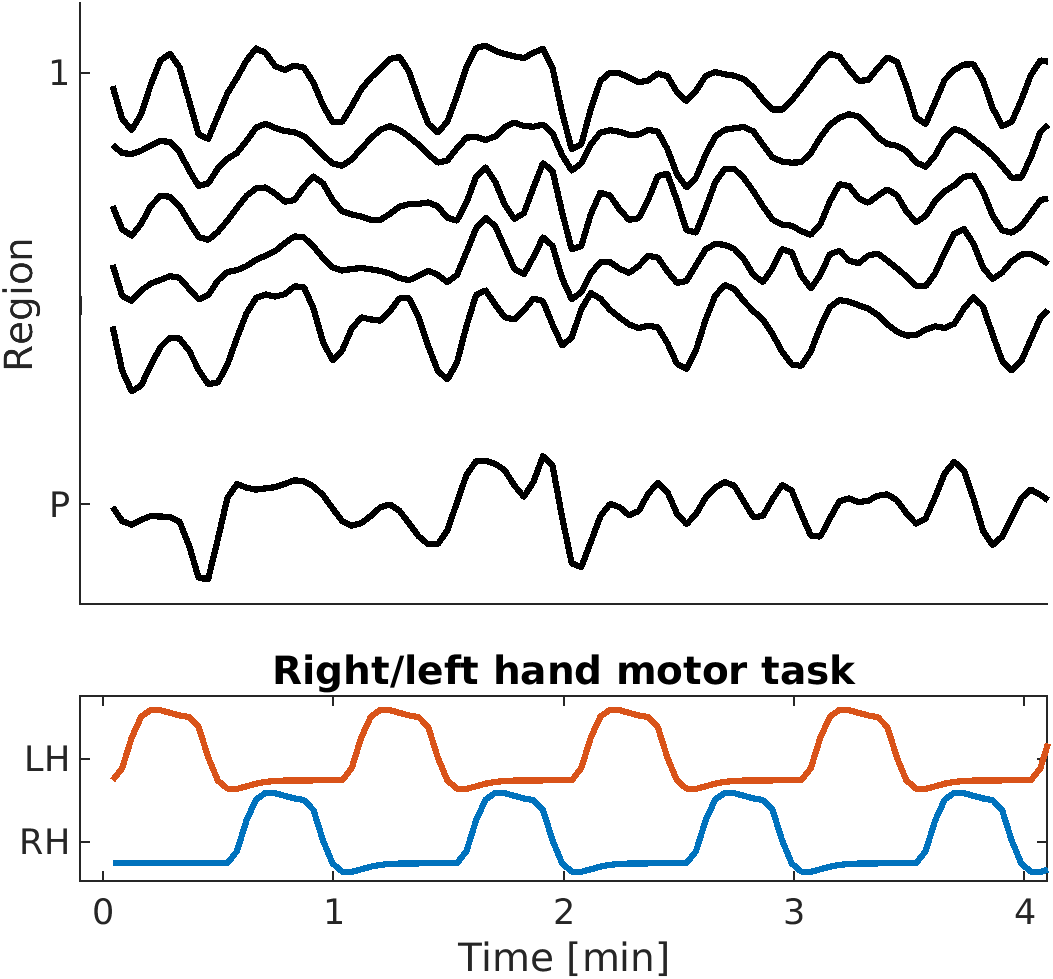
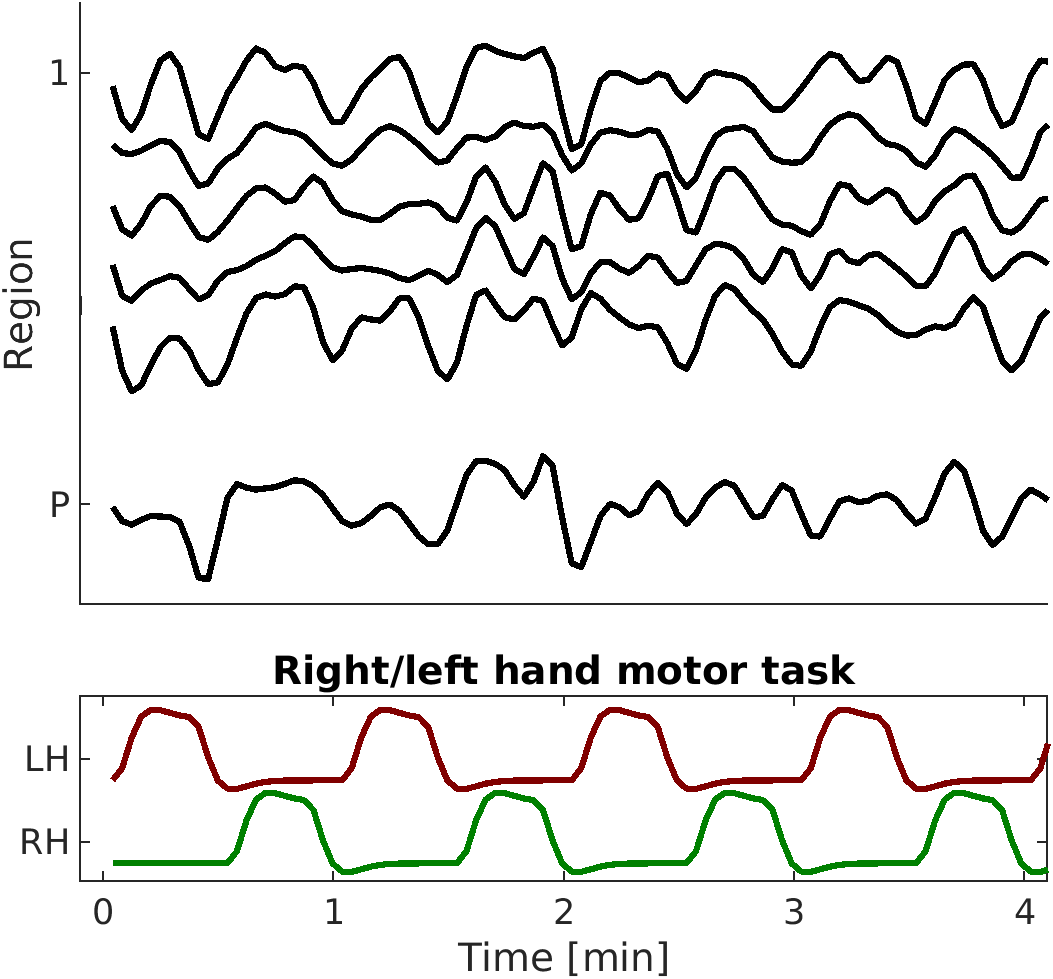
visuals

diff --git a/src/visualization/sphere_fig.m b/src/visualization/sphere_fig.m
@@ -36,32 +36,11 @@ else
 end
 %% Figure 1
 pointsspherefig(X,cluster_id);
-exportgraphics(gcf,[ff,'sphere_WMM_data.png'],'Resolution',300)
+% pause(2)
+% exportgraphics(gcf,[ff,'sphere_WMM_data.png'],'Resolution',300)
 
 
 % WMM_results = WMM_EM_BigMem2(X,2,200,1,'++',0)
-
-%% emission probs
-
-figure('units','normalized','outerposition',[0 0.6 .6 0.3]),
-plot(task);
-
-figure('units','normalized','outerposition',[0.6 0.6 .6 0.3]),
-x = table2array(readtable('data/synthetic/Watson_MM_posterior.csv'));
-plot([smooth(x(:,1)),smooth(x(:,2))]);
-ylim([-0.1 1.1]),title('Watson MM')
-figure('units','normalized','outerposition',[0.6 0.3 .6 0.3]),
-x = table2array(readtable('data/synthetic/Watson_HMM_viterbi.csv'));
-plot(x);
-ylim([-0.1 1.1]),title('Watson HMM')
-figure('units','normalized','outerposition',[0.6 0.0 .6 0.3]),
-x = table2array(readtable('data/synthetic/ACG_MM_posterior.csv'));
-plot([smooth(x(:,1)),smooth(x(:,2))]);
-ylim([-0.1 1.1]),title('ACG MM')
-figure('units','normalized','outerposition',[0.6 -0.3 .6 0.3]),
-x = table2array(readtable('data/synthetic/ACG_HMM_viterbi.csv'));
-plot(x);
-ylim([-0.1 1.1]),title('ACG HMM')
 
 
 
@@ -73,39 +52,90 @@ mu1 = table2array(readtable('data/synthetic/Watson_MM_comp0mu.csv'));
 kappa1 = table2array(readtable('data/synthetic/Watson_MM_comp0kappa.csv'));
 mu2 = table2array(readtable('data/synthetic/Watson_MM_comp1mu.csv'));
 kappa2 = table2array(readtable('data/synthetic/Watson_MM_comp1kappa.csv'));
-contourspherefig([mu1,mu2],[kappa2,kappa2],[])
-title('Watson mixture')
-
+orderwmm = contourspherefig([mu1,mu2],[kappa1,kappa2],[],SIGMAs);
+% title('Watson mixture')
+% pause(2)
 % exportgraphics(gcf,[ff,'sphere_WMM_contour.png'],'Resolution',300)
 
 %%% ACG MM
 L1 = table2array(readtable('data/synthetic/ACG_MM_comp0.csv'));
 L2 = table2array(readtable('data/synthetic/ACG_MM_comp1.csv'));
-contourspherefig([],[],cat(3,L1,L2))
-gcf,title('ACG mixture')
-view(-29,-13)
-% exportgraphics(gcf,[ff,'sphere_WMM_contour.png'],'Resolution',300)
-return
+orderacgmm = contourspherefig([],[],cat(3,L1,L2),SIGMAs);
+% gcf,title('ACG mixture')
+% pause(2)
+% exportgraphics(gcf,[ff,'sphere_ACGMM_contour.png'],'Resolution',300)
+
 %%% Watson HMM
 mu1 = table2array(readtable('data/synthetic/Watson_HMM_comp0mu.csv'));
 kappa1 = table2array(readtable('data/synthetic/Watson_HMM_comp0kappa.csv'));
 mu2 = table2array(readtable('data/synthetic/Watson_HMM_comp1mu.csv'));
 kappa2 = table2array(readtable('data/synthetic/Watson_HMM_comp1kappa.csv'));
-contourspherefig([mu1,mu2],[kappa2,kappa2],[])
+orderwmmhmm = contourspherefig([mu1,mu2],[kappa1,kappa2],[],SIGMAs);
 title('Watson HMM')
-view(-29,-13)
+% pause(2)
 % exportgraphics(gcf,[ff,'sphere_WMM_contour.png'],'Resolution',300)
 
 %%% ACG HMM
 L1 = table2array(readtable('data/synthetic/ACG_HMM_comp0.csv'));
 L2 = table2array(readtable('data/synthetic/ACG_HMM_comp1.csv'));
-contourspherefig([],[],cat(3,L1,L2))
-gcf,title('ACG HMM')
-view(-29,-13)
+orderacgmmhmm = contourspherefig([],[],cat(3,L1,L2),SIGMAs);
+% gcf,title('ACG HMM')
+% pause(2)
 % exportgraphics(gcf,[ff,'sphere_WMM_contour.png'],'Resolution',300)
 
+%% emission probs
+t_fMRI = linspace(0,4.1,size(X,1));
 
+figure('Position',[50,50,400,700])
+tiledlayout(10,1)
+cols{1} = [0,0.5,0.5];
+cols{2} = [0.5,0,0.5];
 
+nexttile(1,[2,1]),hold on
+x_wmm = table2array(readtable('data/synthetic/Watson_MM_posterior.csv'));
+plot(t_fMRI,x_wmm(:,orderwmm(1))+0.2,'color',cols{1});
+plot(t_fMRI,x_wmm(:,orderwmm(2))+1.4,'color',cols{2});
+xticks([]),yticks([]),xlim([-0.1,4.1]),ylim([0,2.6])
+ylabel('Watson')
+title('Mixture model posterior probabilities')
+% yticks([0.65,1.75])
+% yticklabels({'\beta_1','\beta_2'})
+nexttile(3,[2,1]),hold on
+x_acgmm = table2array(readtable('data/synthetic/ACG_MM_posterior.csv'));
+plot(t_fMRI,x_acgmm(:,orderacgmm(1))+0.2,'color',cols{1});
+plot(t_fMRI,x_acgmm(:,orderacgmm(2))+1.4,'color',cols{2});
+xticks([]),yticks([]),xlim([-0.1,4.1]),ylim([0,2.6])
+ylabel('ACG')
+
+nexttile(5,[2,1]),hold on
+x = table2array(readtable('data/synthetic/Watson_HMM_viterbi.csv'));
+x_wmmhmm = [x,x];x_wmmhmm(:,1)=x==0;x_wmmhmm(:,2)=x==1;
+plot(t_fMRI,x_wmmhmm(:,orderwmmhmm(1))+0.2,'color',cols{1});
+plot(t_fMRI,x_wmmhmm(:,orderwmmhmm(2))+1.4,'color',cols{2});
+xticks([]),yticks([]),xlim([-0.1,4.1]),ylim([0,2.6])
+ylabel('Watson')
+title('Hidden Markov model state sequence')
+% yticks([0.65,1.75])
+% yticklabels({'\beta_1','\beta_2'})
+nexttile(7,[2,1]),hold on
+x = table2array(readtable('data/synthetic/ACG_HMM_viterbi.csv'));
+x_acgmmhmm = [x,x];x_acgmmhmm(:,1)=x==0;x_acgmmhmm(:,2)=x==1;
+plot(t_fMRI,x_acgmmhmm(:,orderacgmmhmm(1))+0.2,'color',cols{1});
+plot(t_fMRI,x_acgmmhmm(:,orderacgmmhmm(2))+1.4,'color',cols{2});
+xticks([]),yticks([]),xlim([-0.1,4.1]),ylim([0,2.6])
+ylabel('ACG')
+
+nexttile(9,[2,1])
+plot(t_fMRI,task(:,1),'LineWidth',1.5,'color',[0,0.5,0]),hold on
+plot(t_fMRI,task(:,2)+0.2+max(task(:)),'LineWidth',1.5,'color',[0.5,0,0])
+title('Right/left hand motor task')
+xlabel('Time [min]'),
+ylim([-.3,2.7])
+xlim([-.1 4.1])
+xticks(0:4)
+yticks([mean(task(:,1)),mean(task(:))+max(task(:))+0.2])
+yticklabels({'RH','LH'})
+exportgraphics(gcf,[ff,'emission_viterbi.png'],'Resolution',300)
 %% function
 function [X,cluster_allocation] = syntheticMixture3D(PI,SIGMAs,num_points,noise)
 
@@ -187,7 +217,7 @@ end
 end
 
 %% Figure fit, Sphere, contour
-function contourspherefig(mu,kappa,L)
+function order = contourspherefig(mu,kappa,L,target)
 
 gridPoints = 1000;
 [XX,YY,ZZ] = sphere(gridPoints);
@@ -217,22 +247,31 @@ addpath('/dtu-compute/HCP_dFC/2023/hcp_dfc/src/models/')
 
 T1 = nan(size(XX));T2 = nan(size(XX));
 
-varfactor = 0.4;
+varfactor = 0.5;
+likelihood_threshold = [0,-1];
+
 
 if ~isempty(mu)&&~isempty(kappa)
+    M2 = kummer_log(0.5,1.5,kappa,50000);
+    Cp = gammaln(1.5)-log(2)-1.5*log(pi)-M2';
     %     kappa = kappa*10;
     for i = 1:size(XX,1)
         for j = 1:size(XX,2)
             tmp = [XX(i,j),YY(i,j),ZZ(i,j)];
-            if (tmp*mu(:,1)).^2>1-varfactor./kappa(1)
-                T1(i,j) = (tmp*mu(:,1)).^2;
-            elseif (tmp*mu(:,2)).^2>1-varfactor./kappa(2)
-                T2(i,j) = (tmp*mu(:,2)).^2;
+            logpdf = Cp + kappa'.*((mu'*tmp').^2);
+%             if (tmp*mu(:,1)).^2>1-varfactor./kappa(1)
+%                 T1(i,j) = (tmp*mu(:,1)).^2;
+%             elseif (tmp*mu(:,2)).^2>1-varfactor./kappa(2)
+%                 T2(i,j) = (tmp*mu(:,2)).^2;
+%             end
+            if logpdf(1)>likelihood_threshold(1)
+                T1(i,j) = logpdf(1);
+            elseif logpdf(2)>likelihood_threshold(1)
+                T2(i,j) = logpdf(2);
             end
         end
     end
 elseif ~isempty(L)
-    likelihood_threshold = 0;
     Cp = gammaln(1.5)-log(2)-1.5*log(pi);
     logdeta1 = -2*sum(log(abs(diag(L(:,:,1)))));
     logdeta2 = -2*sum(log(abs(diag(L(:,:,2)))));
@@ -246,9 +285,9 @@ elseif ~isempty(L)
             B1 = tmp*L(:,:,1);B1 = sum(B1.*B1,2);
             B2 = tmp*L(:,:,2);B2 = sum(B2.*B2,2);
             
-            if Cp-0.5*logdeta1+(-1.5)*log(B1)>likelihood_threshold
+            if Cp-0.5*logdeta1+(-1.5)*log(B1)>likelihood_threshold(2)
                 T1(i,j) = Cp-0.5*logdeta1+(-1.5)*log(B1);
-            elseif Cp-0.5*logdeta2+(-1.5)*log(B2)>likelihood_threshold
+            elseif Cp-0.5*logdeta2+(-1.5)*log(B2)>likelihood_threshold(2)
                 T2(i,j) = Cp-0.5*logdeta2+(-1.5)*log(B2);
             end
             
@@ -301,15 +340,46 @@ col1 = [0,0.4,0];
 col2 = [0.5,0,0];
 % col3 = [0.5,0,0.5];
 
-cmaps{1} = ([linspace(1,0,256)',linspace(1,0.5,256)',linspace(1,0,256)']);
-cmaps{2} = ([linspace(1,0.5,256)',linspace(1,0,256)',linspace(1,0,256)']);
+% cmaps{1} = ([linspace(1,0,256)',linspace(1,0.5,256)',linspace(1,0,256)']);
+% cmaps{2} = ([linspace(1,0.5,256)',linspace(1,0,256)',linspace(1,0,256)']);
+
+cmaps{1} = ([linspace(1,0,256)',linspace(1,0.5,256)',linspace(1,0.5,256)']);
+cmaps{2} = ([linspace(1,0.5,256)',linspace(1,0,256)',linspace(1,0.5,256)']);
 
 %
-colormap(ax2,cmaps{1})
-colormap(ax3,cmaps{2})
+
+if ~isempty(mu)&&~isempty(kappa)
+    if ((target(:,:,1)*ones(3,1))'*mu(:,1)).^2<((target(:,:,1)*ones(3,1))'*mu(:,2)).^2
+        colormap(ax2,cmaps{2})
+        colormap(ax3,cmaps{1})
+        order = [2,1];
+    else
+        colormap(ax2,cmaps{1})
+        colormap(ax3,cmaps{2})
+        order = [1,2];
+    end
+elseif ~isempty(L)
+    if norm(inv(L(:,:,1)*L(:,:,1)')./norm(inv(L(:,:,1)*L(:,:,1)'))-target(:,:,1)./norm(target(:,:,1)))>norm(inv(L(:,:,2)*L(:,:,2)')./norm(inv(L(:,:,2)*L(:,:,2)'))-target(:,:,1)./norm(target(:,:,1)))
+        colormap(ax2,cmaps{1})
+        colormap(ax3,cmaps{2})
+        order = [2,1];
+    else
+        colormap(ax2,cmaps{2})
+        colormap(ax3,cmaps{1})
+        order = [1,2];
+    end
+end
+
+
 
 
 end
+
+
+
+
+
+
 
 
 

diff --git a/src/visualization/methodsfigure.m b/src/visualization/methodsfigure.m
@@ -46,7 +46,8 @@ xlim([-.1 4.1])
 % title('fMRI time series')
 yticks(0.05*[-5,16.5]),yticklabels({'P','1'}),ylabel('Region'),%title('fMRI time-series')
 nexttile(6,[2,1])
-plot(t_fMRI/60,target+[0,0.2+max(target(:))],'LineWidth',1.5)
+plot(t_fMRI/60,target(:,1),'LineWidth',1.5,'color',[0,0.5,0]),hold on
+plot(t_fMRI/60,target(:,2)+0.2+max(target(:)),'LineWidth',1.5,'color',[0.5,0,0])
 title('Right/left hand motor task')
 xlabel('Time [min]'),
 ylim([-.3,2.7])
